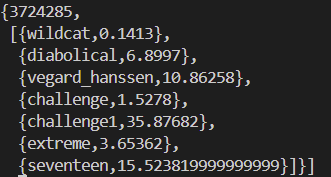
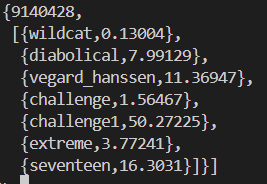
update

Changed region(s): [[0.0, 0.1412, 0.9588, 1.0], [0.0, 0.0, 0.2996, 0.1412]]

diff --git a/LabB/Report.md b/LabB/Report.md
@@ -150,6 +150,7 @@
 
 4. `limited_par_solve` tries to provide a more controlled parallelism. Pool solve may create unnecessary  overhead when the tree is shallow due to spwaning too many processes. This method overcoems this problem by controlling the depth of which parallelism occurs. Only guesses within the depth threshold are executed speculatively (in parallel). Deeper branches fall back to sequential execution. This aims to balance parallel speedup and overhead to create an even faster solve.
 
+    ```erlang
     limited_par_solve_one([M|Ms], Depth) when Depth < 8 ->
     Rest = speculate_on_worker(fun() ->
         try limited_par_solve_one(Ms, Depth + 1)
@@ -189,40 +190,28 @@ As can be seen in the screenshots, the original `solve` is the slowest. This is 
 
 ## Parallel Benchmarking
 
-Similar to the way we parallelized our solver, we used a worker pool approach to parallelize the benchmarking as this was the main way we did so as well for our solver.
+   ```erlang
+   parallel_benchmarks(Puzzles) ->
+    Parent = self(),
+    [spawn_link(fun() ->
+        Result = bm(fun() -> solve(M) end),
+        Parent ! {Name, Result}
+     end) || {Name, M} <- Puzzles],
 
-1. First we use
+    Collect = fun
+        Collect(0, Acc) -> Acc;
+        Collect(N, Acc) ->
+            receive
+                {Name, Result} -> Collect(N-1, [{Name, Result} | Acc])
+            end
+    end,
 
-    ```erlang
-    start_pool(erlang:system_info(schedulers) - 1).
-    ```
+    Collect(length(Puzzles), []).
 
-This creates the worker pool for the workers to be later dispatched to tasks.
+   ```  
+We use spawn link to parallelize our benchmark and we compare the benchmark and parallel benchmark of the original sequeuntial solve that was provided with the lab.
 
-2. We Interleave the task dispatching
-
-    ```erlang
-    SeqRefs  = parallel_benchmark_tasks(seq,     fun solve/1,            Puzzles),
-    PoolRefs = parallel_benchmark_tasks(pool,    fun pool_solve/1,      Puzzles),
-    LimRefs  = parallel_benchmark_tasks(limited, fun limited_par_solve/1, Puzzles),
-    ```
-
-Each call walks through the entire puzzle with the respective solve technique. As we never tear down the pool between the different solves, all the different solves run concurrently using the worker pool as stated above.
-
-3. Result collection and teardown. After scheduling, we collect {Ref, Time} messages separately for each variant via `collect_benchmark_results`, sum and rescale the averages back into raw totals, then cleanly shut down the pool.
-
-    ```erlang
-    pool ! {stop, self()},
-    receive {pool, stopped} -> ok end
-    ```
-This design maximizes CPU utilization by letting every puzzle be timed in parallel.
-
-
-4. Results of the parallel benchmarking
-
-  | Original                                                     | 
-  | ------------------------------------------------------------ | 
-  | ![paralell_benchmark](./report_img/paralell_benchmark.png) |
-
-As can be seen, compared to the benchmarks that were run not in parallel, this more efficient CPU usage resulting from the parallelization of the benchmarking has cause significant speedups across the board to the time it takes to benchmark N number of solves for each different solve type.
+   | Original                                                     | Parallel                                                     |
+   | ------------------------------------------------------------ | ------------------------------------------------------------ |
+   | ![benchmark_original](./report_img/benchmark_original.png) | ![benchmark_original_parallel](./report_img/benchmark_original_parallel.png) |
 
